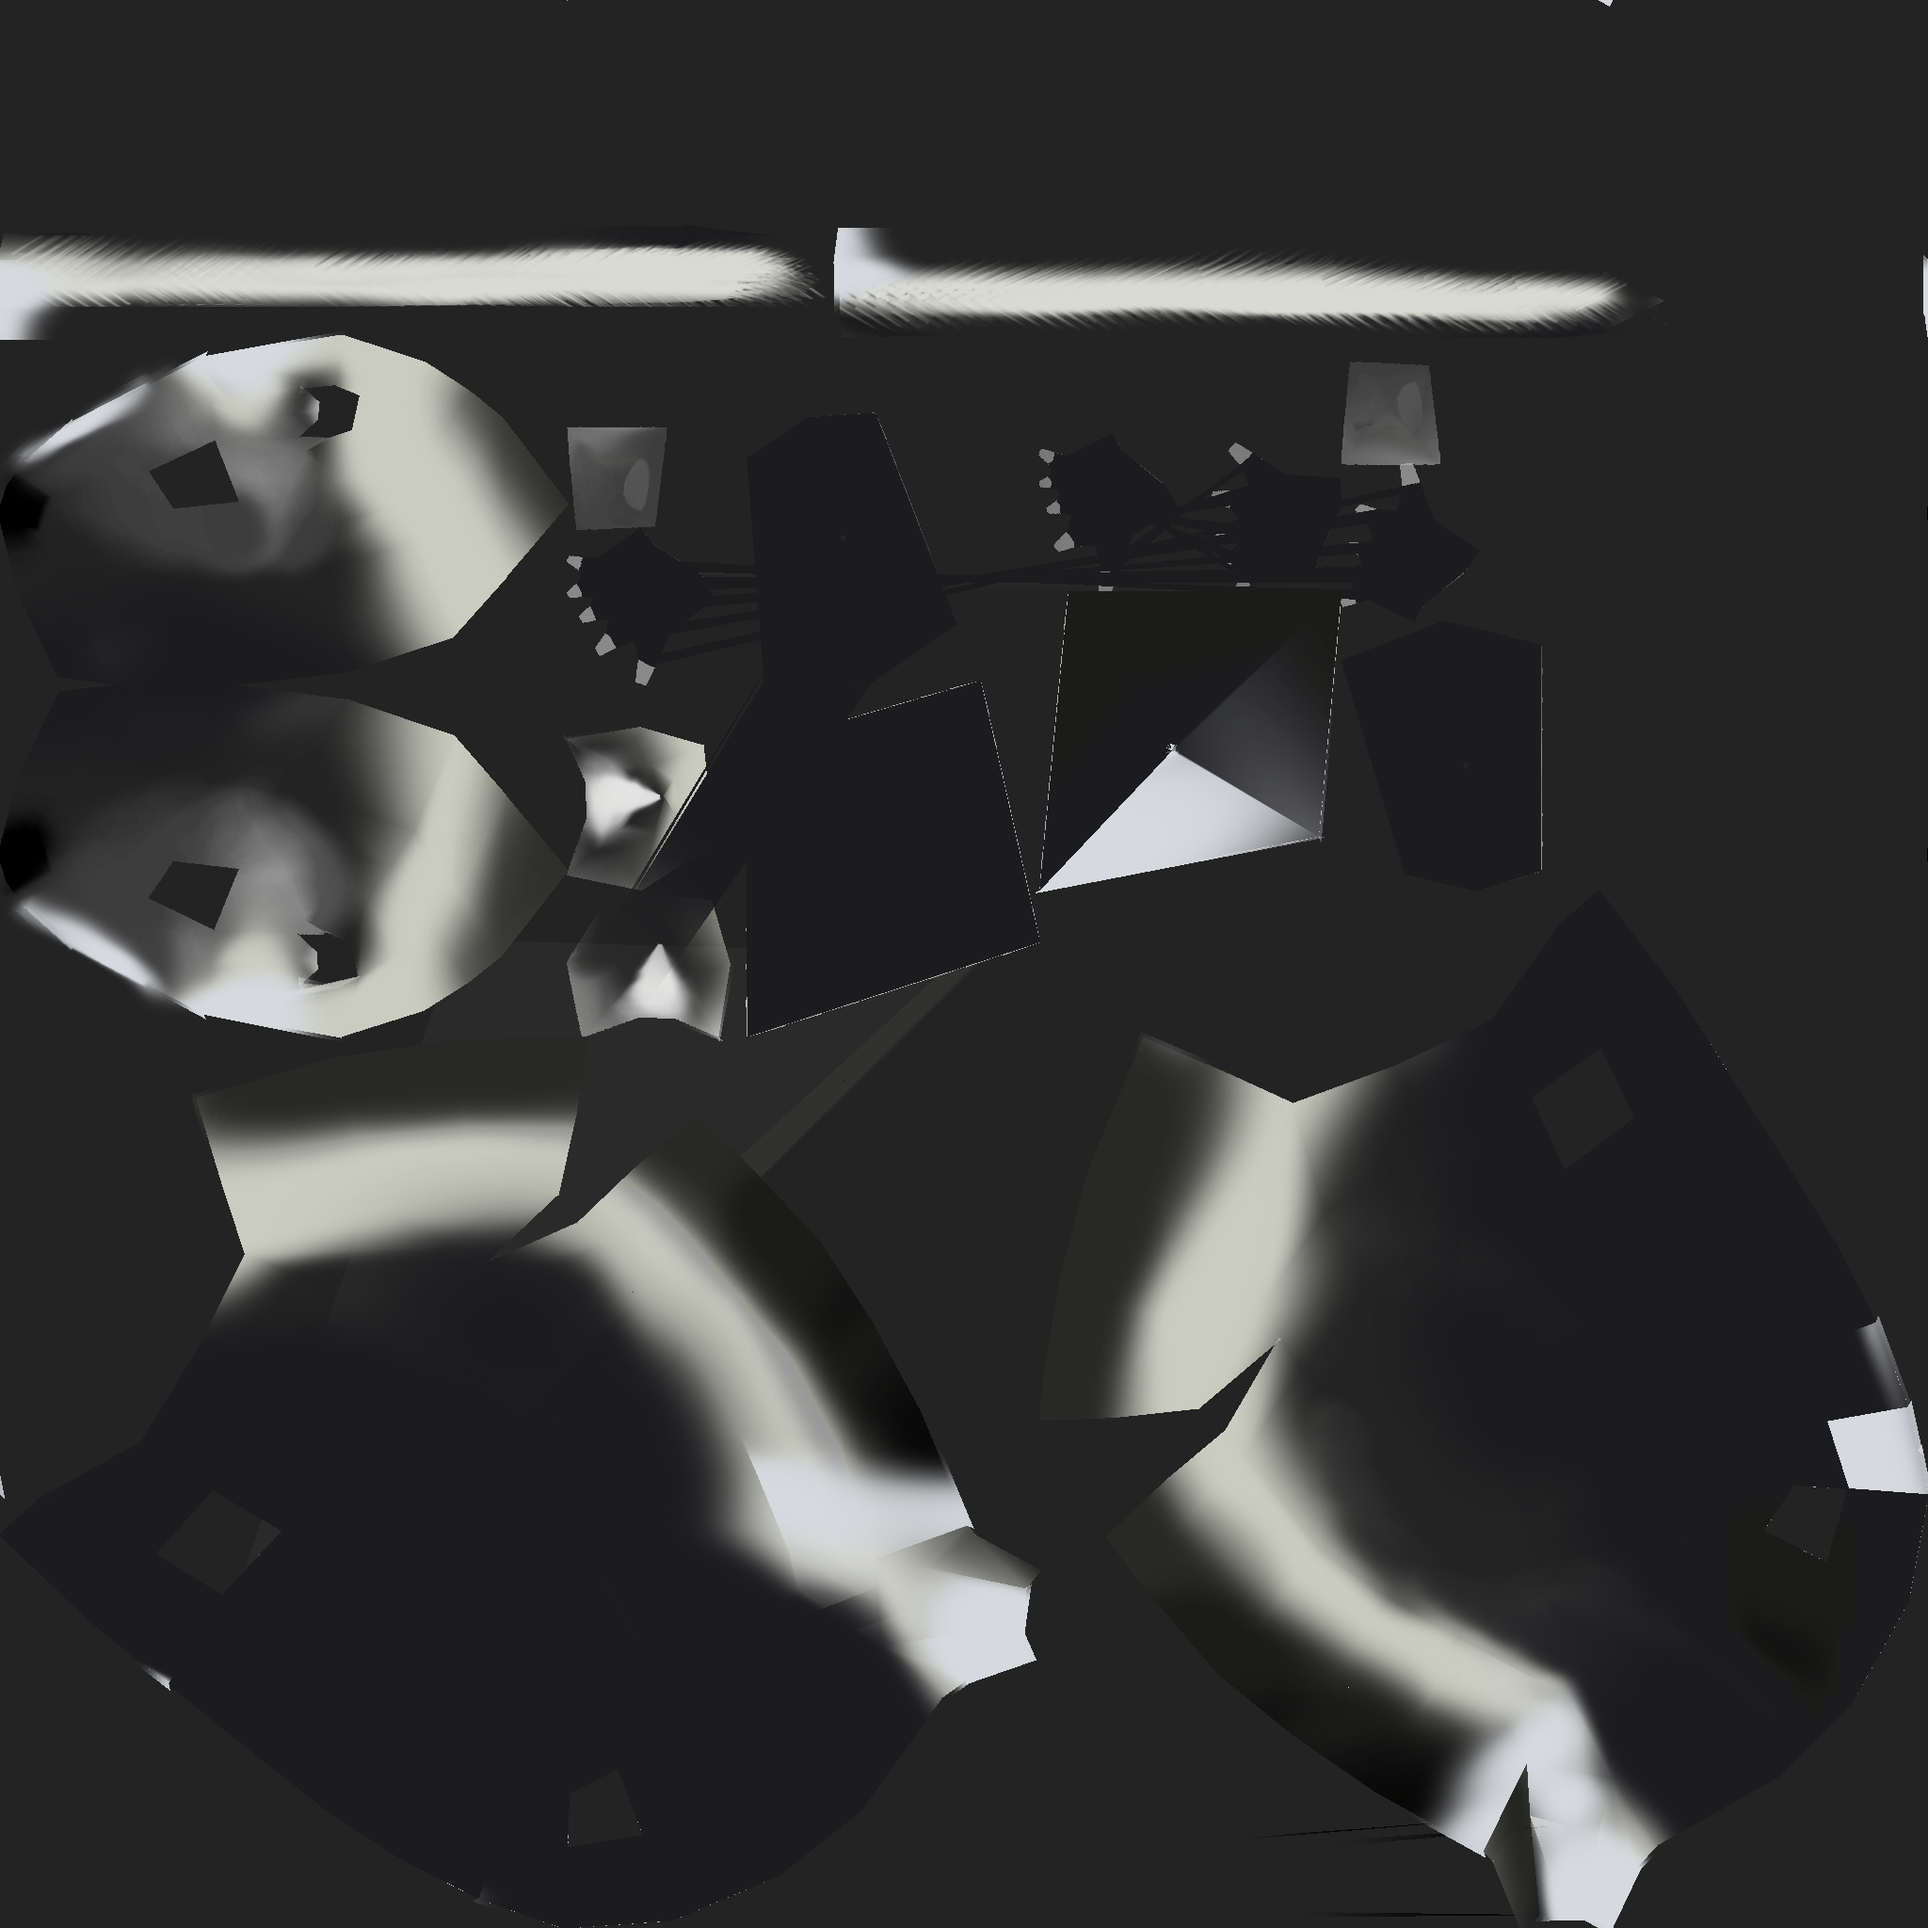
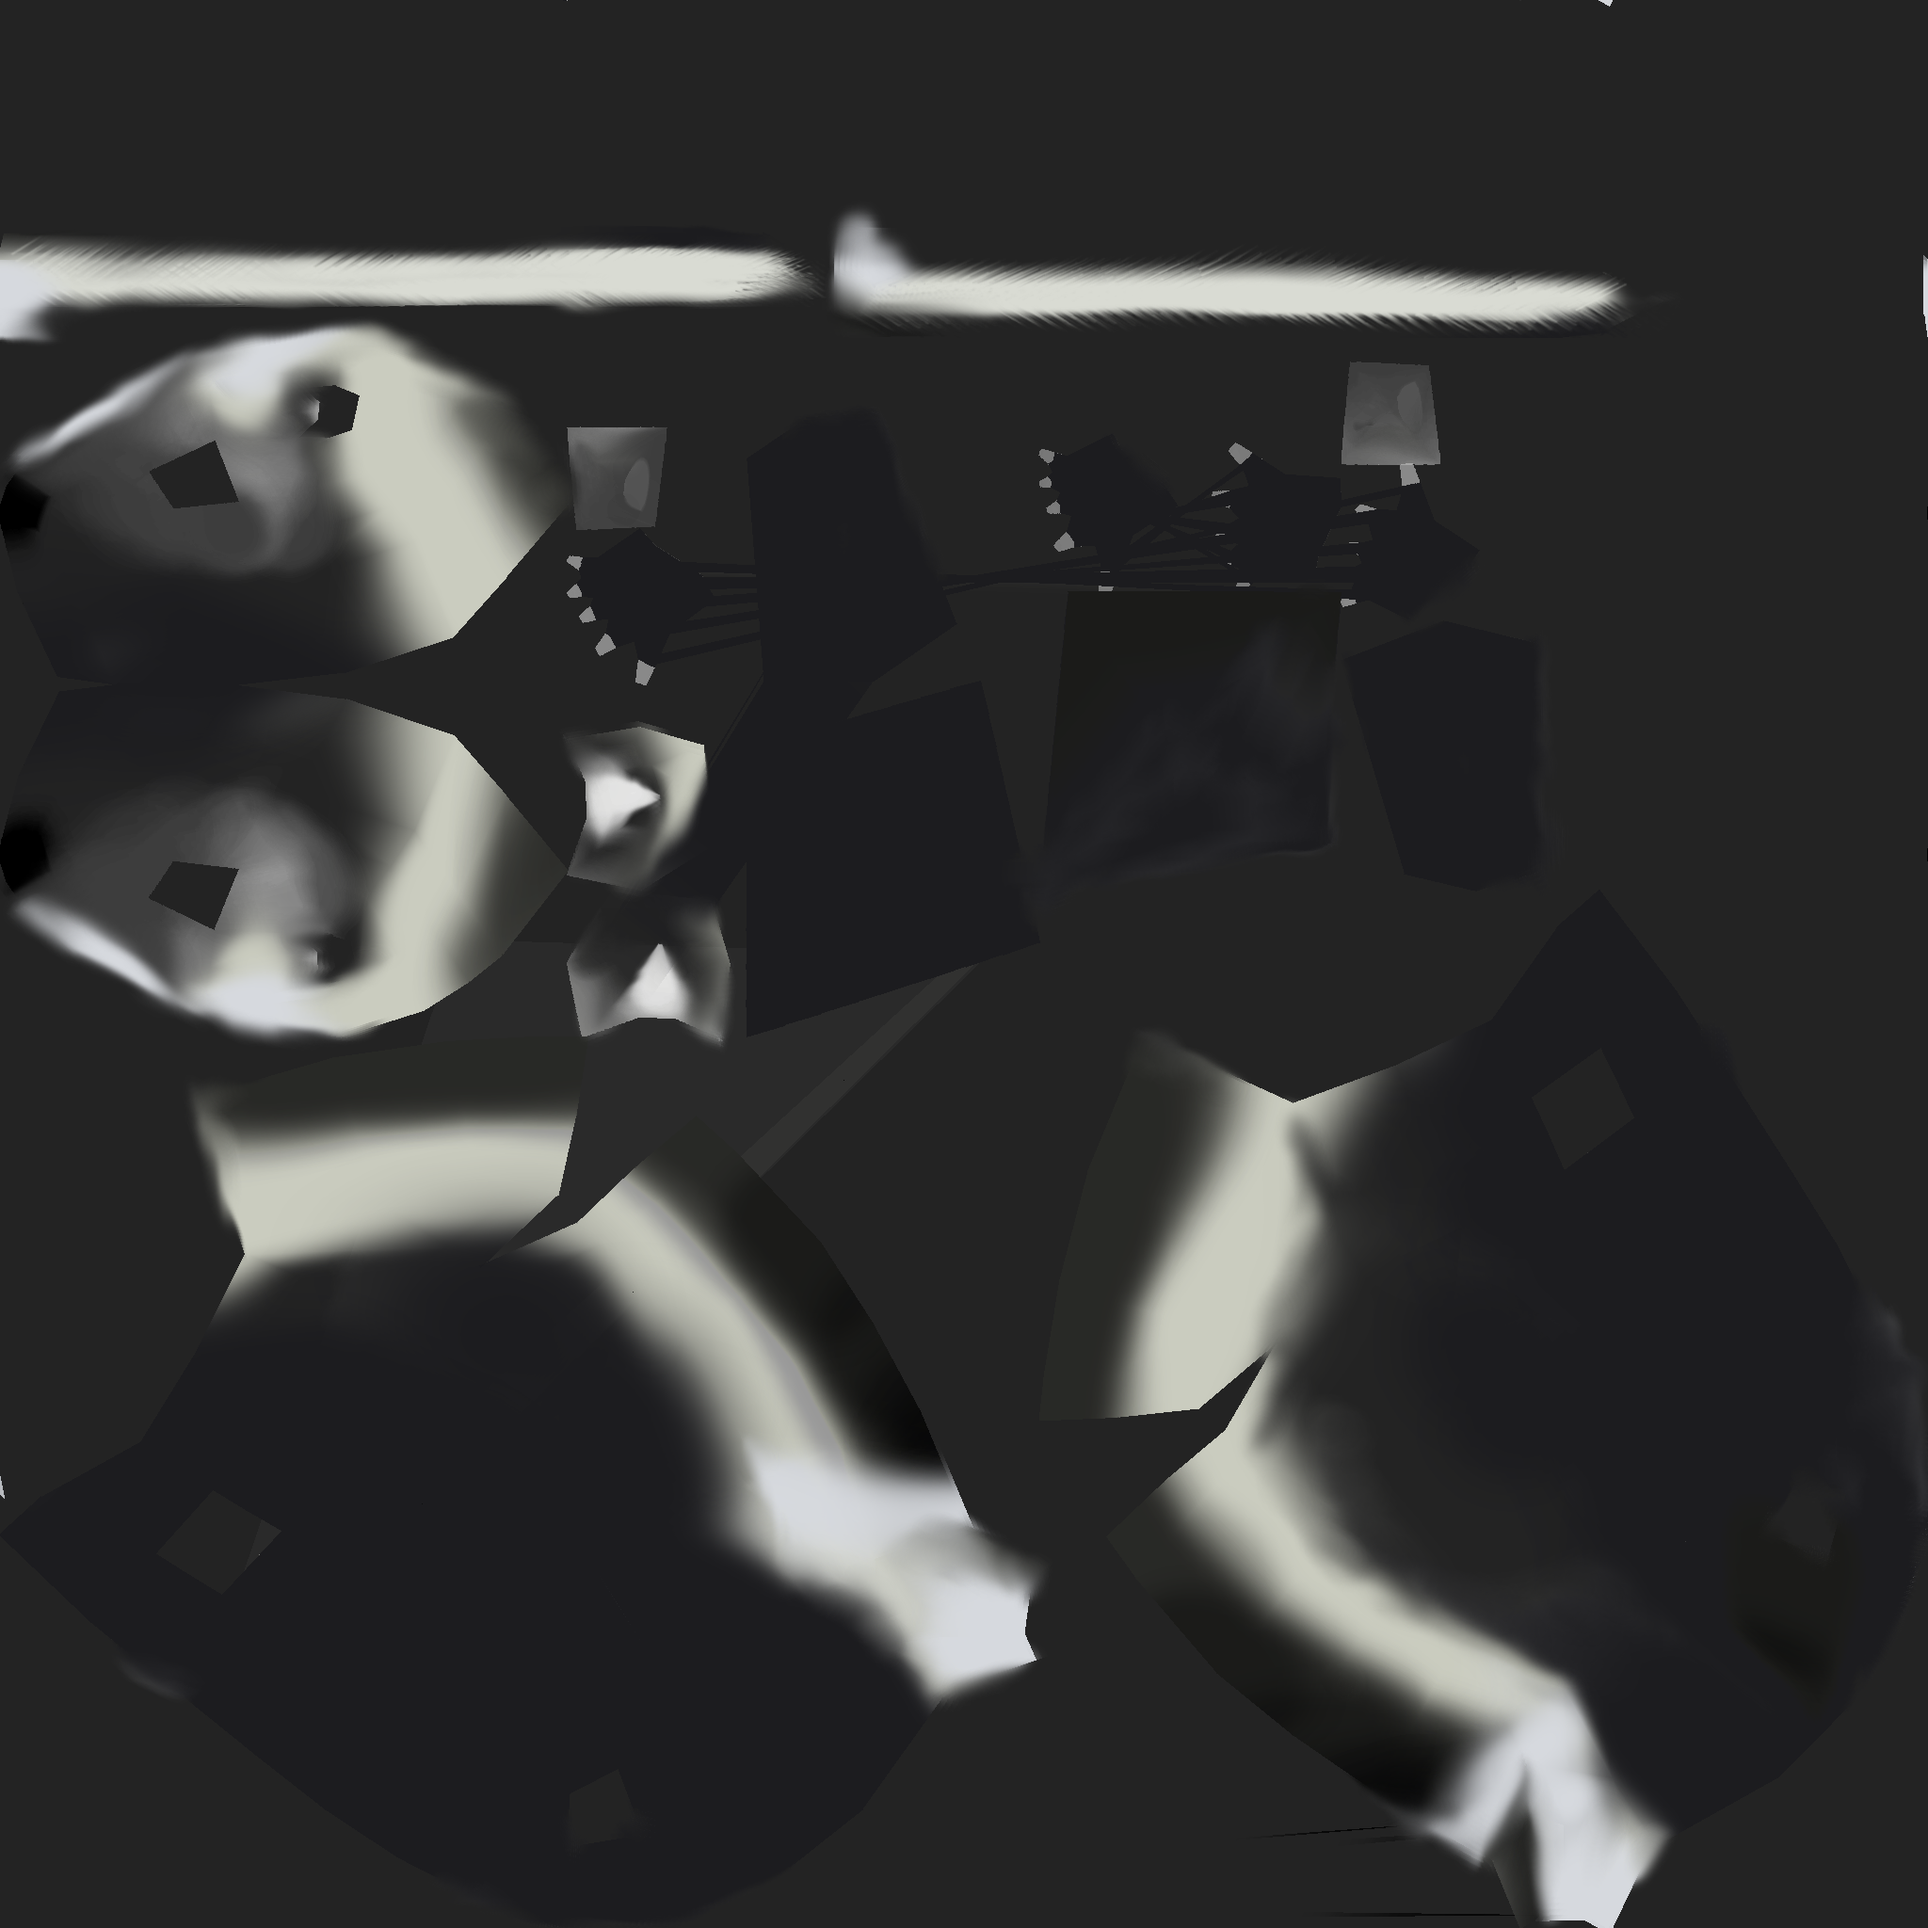
added simple textured Blinn-Phong shader.
Geometry now has a getNormalMatrix function, used to transform normals to world space

diff --git a/src/geometry.cpp b/src/geometry.cpp
@@ -11,6 +11,11 @@ Geometry::~Geometry()
 
 }
 
+glm::mat3 Geometry::getNormalMatrix() const
+{
+	return glm::transpose(glm::mat3(getInverseMatrix()));
+}
+
 void Geometry::update(float timeDelta)
 {
 
@@ -21,6 +26,11 @@ void Geometry::draw(Shader *shader)
 	// pass model matrix to shader
 	GLint modelMatLocation = glGetUniformLocation(shader->programHandle, "modelMat"); // get uniform location in shader
 	glUniformMatrix4fv(modelMatLocation, 1, GL_FALSE, glm::value_ptr(getMatrix())); // shader location, count, transpose?, value pointer
+
+	// pass normal matrix to shader
+	GLint normalMatLocation = glGetUniformLocation(shader->programHandle, "normalMat");
+	glUniformMatrix3fv(normalMatLocation, 1, GL_FALSE, glm::value_ptr(getNormalMatrix()));
+
 
 	for (GLuint i = 0; i < surfaces.size(); ++i) {
 		surfaces[i]->draw(shader);

diff --git a/src/geometry.h b/src/geometry.h
@@ -78,6 +78,17 @@ public:
 	 */
 	virtual void draw(Shader *shader);
 
+	/**
+	 * @brief return a the transposed inverse of the modelMatrix.
+	 * this should be used to transform normals into world space.
+	 * the inverse is used since the normals of a scaled vector are inversely scaled,
+	 * the transpose is used to revert the inversion of the rotational components
+	 * while not affecting the scale factors which lie on the main diagonal.
+	 * mat3 is used since the translational component is irrelevant for normals.
+	 * @return the matrix to transform normals into world space.
+	 */
+	glm::mat3 getNormalMatrix() const;
+
 };
 
 #endif // GEOMETRY_H

diff --git a/src/player.cpp b/src/player.cpp
@@ -47,6 +47,10 @@ void Player::draw(Shader *shader)
 	GLint viewProjMatLocation = glGetUniformLocation(shader->programHandle, "viewProjMat"); // get uniform location in shader
 	glUniformMatrix4fv(viewProjMatLocation, 1, GL_FALSE, glm::value_ptr(viewProjMat)); // shader location, count, transpose?, value pointer
 
+	// pass camera position to shader
+	GLint cameraPosLocation = glGetUniformLocation(shader->programHandle, "cameraPos");
+	glUniform3f(cameraPosLocation, camera->getLocation().x, camera->getLocation().y, camera->getLocation().z);
+
 	Geometry::draw(shader);
 }
 
